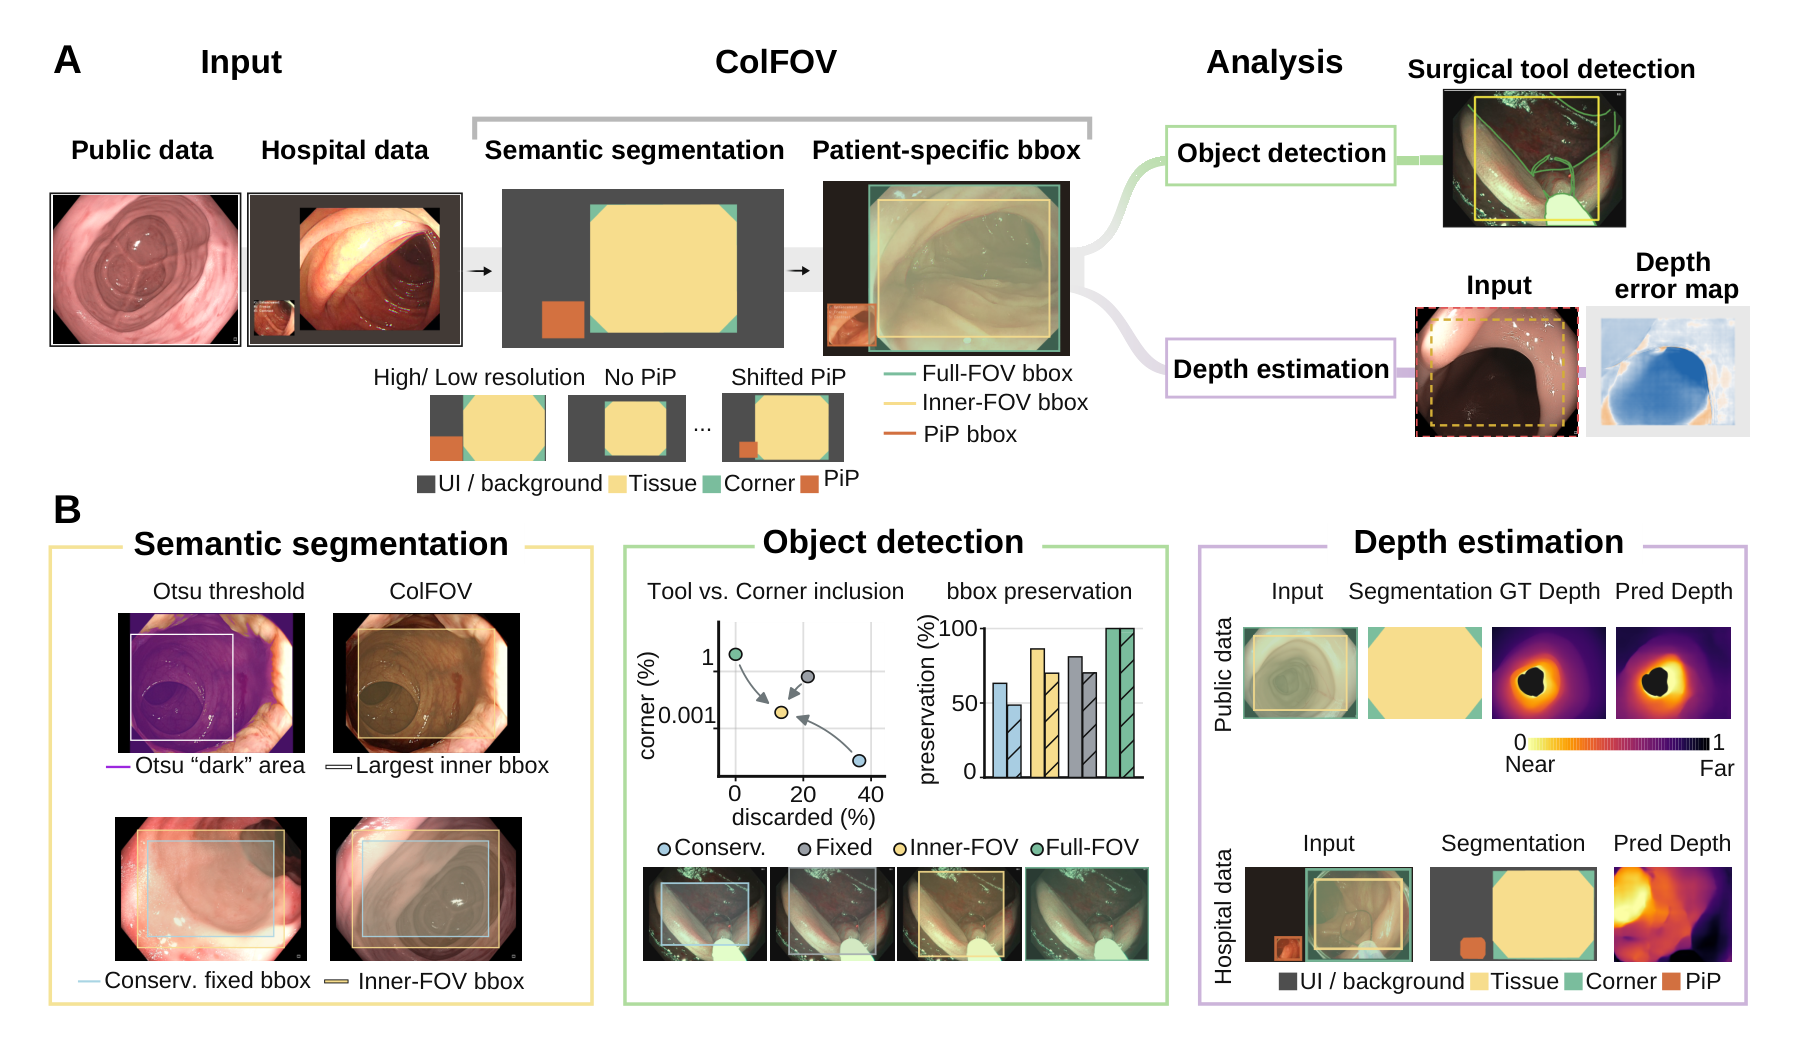
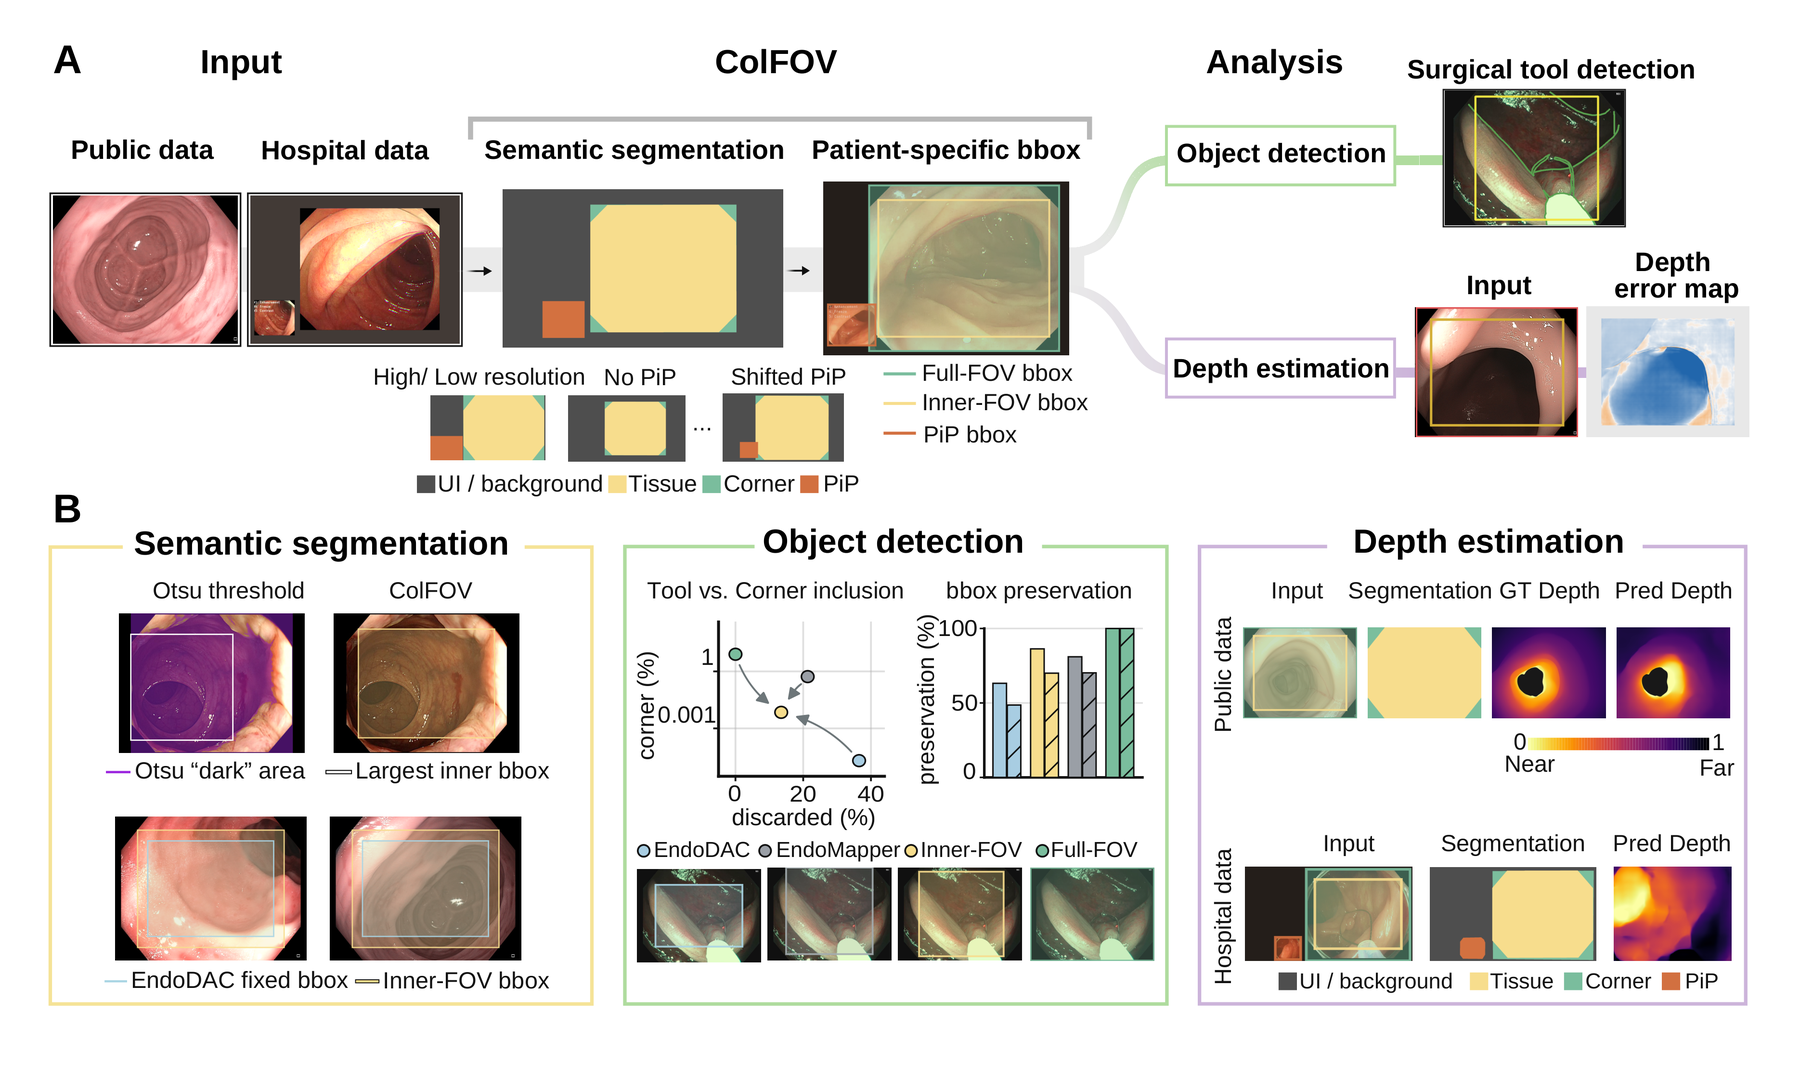
docs: open both READMEs with the manuscript's own framing, refresh Figure 1
The opening paragraph now says what the article says: a recorded frame is not
the view the model should analyse, the rectangle you cut out of it decides
which tissue and tools survive and at what scale, and that choice usually goes
unreported. It also names the two things the paper argues are insufficient on
their own, a fixed dataset crop and an accurate field mask, since the mask
still carries the black corners inside its bounding rectangle.

assets/fig1_workflow.png is re-rendered from the manuscript master as
re-exported on 2026-09-07, so the workflow figure here matches the submitted
article. Provenance records the new dimensions and hashes.

diff --git a/README.ko.md b/README.ko.md
@@ -2,11 +2,14 @@
 
 [English](README.md)
 
-**대장내시경 AI 모델에 넣는 이미지에는 내시경 시야가 아닌 것이 많이 섞여 있습니다.**
-프로세서 UI 테두리가 감싸고, 광학계가 닿지 않는 모서리는 까맣고, letterbox 여백이 붙고,
-두 번째 화면을 보여주는 picture-in-picture 창이 뜨기도 합니다. depth든 detection이든
-classification이든, 이 픽셀들이 전부 같이 입력으로 들어갑니다. 그렇다고 특정 장비에 맞춰
-crop 좌표를 박아두면 다음 장비에서 안 맞습니다.
+**녹화된 대장내시경 프레임은 모델이 봐야 할 화면과 같은 것이 아닙니다.**
+내시경 시야 둘레에는 프로세서 UI 테두리가 있고, 광학계가 닿지 않는 모서리는 까맣고,
+letterbox 여백이 붙고, 두 번째 화면을 보여주는 picture-in-picture 창이 뜨기도 합니다.
+그 프레임에서 어떤 사각형을 잘라내느냐가 어떤 조직과 수술 도구가 남는지, resize 뒤에
+그것들이 얼마나 크게 보이는지, UI 그래픽이 모델까지 들어가는지를 결정합니다. 엄연한
+실험 설계 선택인데 보통 논문에 적히지 않습니다. 한 데이터셋에 맞춘 고정 crop은 다음
+장비에서 그대로 쓸 수 없고, 시야를 정확히 찾아낸 마스크조차 그 bounding rectangle 안에는
+검은 모서리가 그대로 남습니다.
 
 ![ColFOV workflow](assets/fig1_workflow.png)
 
@@ -18,7 +21,7 @@ PiP 창은 시술 도중에 옮겨 다니므로 계속 추적합니다.
 셋 중 무엇을 쓸지는 하려는 일에 달렸습니다. Inner-FOV는 UI도 모서리도 없는 깨끗한
 사각형이라 depth나 classification 모델에 넣기 좋고, Full-FOV는 주변부까지 남기니까 화면
 가장자리에 주석이 걸릴 수 있는 경우에 맞습니다. 각 선택이 downstream에 어떤 차이를 만드는지는
-논문에 있습니다. 여기서 중요한 건 그게 선택이고, 그 선택을 겉으로 드러냈다는 점입니다.
+논문에 있습니다. 이 저장소가 주는 것은 그 사각형들과, 그것이 어떻게 나왔는지에 대한 기록입니다.
 
 라이선스는 아직 정하지 않았고, 원고 투고할 때 함께 정리할 예정입니다.
 

diff --git a/README.md b/README.md
@@ -2,11 +2,14 @@
 
 [한국어](README.ko.md)
 
-**The image you feed a colonoscopy AI model can contain a lot that is not endoscopic
-field.** A processor UI border, black corners where the optics do not reach, letterbox
-padding, and sometimes a picture-in-picture window showing a second view. Whatever your
-model is — depth, detection, classification — those pixels go in with everything else, and
-a crop rectangle hardcoded for one recorder does not transfer to the next.
+**A recorded colonoscopy frame is not the same thing as the view your model should
+analyse.** Around the endoscopic field sit a processor UI border, black corners where the
+optics do not reach, letterbox padding, and sometimes a picture-in-picture window showing a
+second view. Which rectangle you cut out of that frame decides which tissue and surgical
+tools stay visible, how large they are after resizing, and whether interface graphics reach
+the model at all. That is a real experimental choice, and it usually goes unreported.
+Copying a fixed crop from one dataset does not carry over to the next recorder, and even an
+accurate field mask still leaves the black corners inside its own bounding rectangle.
 
 ![ColFOV workflow](assets/fig1_workflow.png)
 
@@ -19,8 +22,8 @@ because the window moves.
 Which one you want depends on the task. Inner-FOV gives a clean rectangle with no UI and no
 corner, which is what a depth or classification model wants. Full-FOV keeps the whole field
 including the periphery, which matters when an annotation can sit near the edge. The paper
-reports what each choice does downstream; the point here is that it is a choice, made
-explicit instead of assumed.
+reports what each choice does downstream. This repository gives you the rectangles
+themselves and the record of how they were derived.
 
 Licensing terms are not settled yet and will be added when the manuscript is submitted.
 

diff --git a/assets/PROVENANCE.md b/assets/PROVENANCE.md
@@ -9,14 +9,14 @@ Ancillary PNG metadata was removed; each file contains only `IHDR`, `IDAT` and `
 
 | asset | dimensions | sha256 |
 |---|---|---|
[3 lines of base64/hex data omitted]
 
 ## Sources
 
 | asset | source figure file | source sha256 (prefix) |
 |---|---|---|
-| `fig1_workflow.png` | `figures/fig1_workflow.pdf` | `af78a80f086dc3fd…` |
+| `fig1_workflow.png` | `figures/fig1_workflow.pdf` | `13b26b069d1f126d…` |
 | `sup_fig3_label_pairs.png` | `figures/candidates/git_sup_fig3_label_pairs.pdf` | `6840ea89bdb1d465…` |
 
 The manuscript masters were not modified. The vector sources, which contain the
@@ -25,6 +25,9 @@ embedded clinical rasters, are **not** included in this repository.
 The label-pair asset is the repository-specific variant (`git_` prefix), which carries the
 "Three b-boxes from semantic segmentation" panel and the Full-FOV / Inner-FOV / PiP legend;
 the manuscript's own supplementary figure is a different layout and is not used here.
+
+`fig1_workflow.png` was re-rendered again on 2026-09-07 from the manuscript master as
+re-exported that day, so the figure here matches the one in the submitted article.
 
 Re-rendered 2026-09-04 from the current masters. The previous assets came
 from a superseded working export whose embedded rasters were placed off their native
